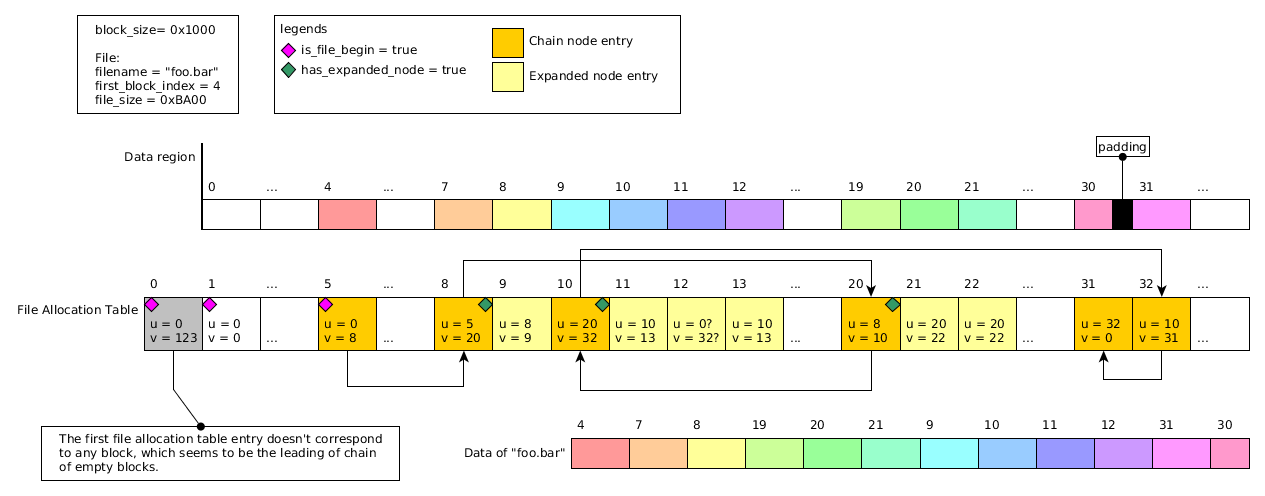
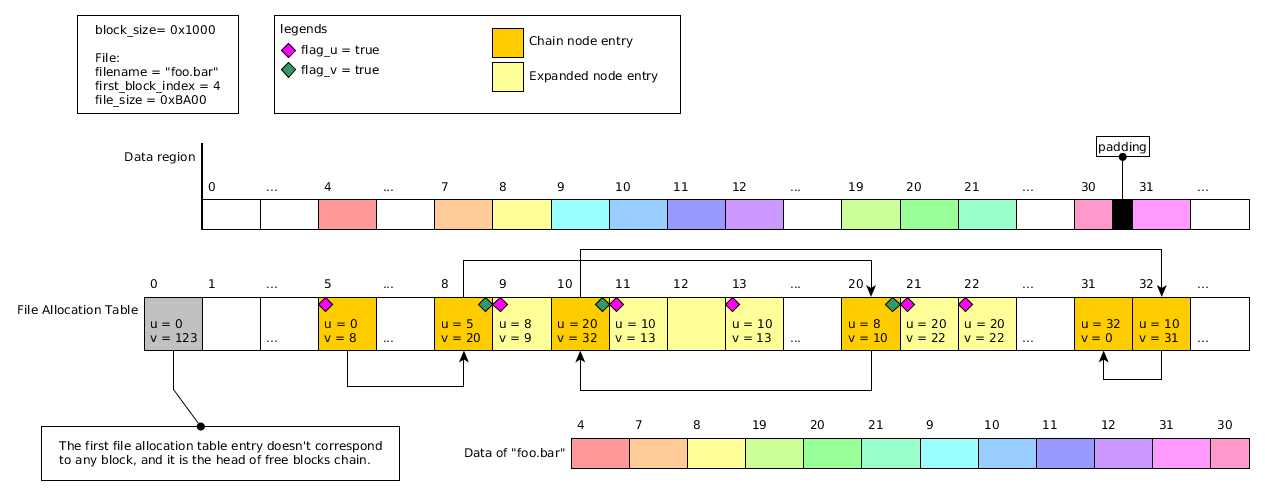
update doc

diff --git a/DISA.md b/DISA.md
@@ -191,23 +191,25 @@ If the DATA image exists, data region is the whole DATA image; other wise, data 
 |-|-|-|
 |0x00|4|Magic "SAVE"|
 |0x04|4|Magic 0x40000|
-|0x08|8|0x20?|
+|0x08|8|Filesystem Information offset (0x20)|
 |0x10|8|Image size in blocks|
 |0x18|4/8?|Image block size|
-|0x1C|8|Unknown:thinking:|
+|0x1C|4|Unknown:thinking:|
+|||Below is Filesystem Information|
+|0x20|4|Unknown:thinking:|
 |0x24|4|Data region block size|
 |0x28|8|Directory hash table offset|
 |0x30|4|Directory hash table bucket count|
-|0x34|4|Unknown. Usually 0 or equalls FAT entry count:thinking:|
+|0x34|4|Unknown. Usually 0 or equals FAT entry count:thinking:|
 |0x38|8|File hash table offset|
 |0x40|4|File hash table bucket count|
-|0x44|4|Unknown. Usually 0 or equalls FAT entry count:thinking:|
+|0x44|4|Unknown. Usually 0 or equals FAT entry count:thinking:|
 |0x48|8|File allocation table offset|
 |0x50|4|File allocation table entry count|
-|0x54|4|Unknown. Usually 0 or equalls FAT entry count:thinking:|
+|0x54|4|Unknown. Usually 0 or equals FAT entry count:thinking:|
 |0x58|8|Data region offset (if no DATA image)|
 |0x60|4|Data region block count (= File allocation table entry count)|
-|0x64|4|Unknown. Usually 0 or equalls FAT entry count:thinking:|
+|0x64|4|Unknown. Usually 0 or equals FAT entry count:thinking:|
 |0x68|8|If DATA exists: directory entry table offset;
 |||otherwise: u32 directory entry table starting block index + u32 directory entry table block count|
 |0x70|4|Maximum directory count|
@@ -219,6 +221,7 @@ If the DATA image exists, data region is the whole DATA image; other wise, data 
 
  - All "offsets" are relative to the beginning of SAVE image. All "starting block index" are relative to the beginning of data region.
  - The file/directory bucket count & maximum count fields are the same as the arguments passed in when formating the save.
+ - When DATA partition doesn't exist, directory & file entry tables are allocated in the data region, and while be marked allocated in file allocation table as if they are two normal files. However, only continuous allocation as been observed, so directly reading `block_count * block_size` bytes from `data_region + starting_block_index * block_size` should be safe. See the section _File Allocation Table_ below for more information.
 
 ### Directory Entry Table
 The directory entry table is an array of the following entry type. It describes the directory hierarchy of the filesystem.
@@ -292,23 +295,36 @@ uint32_t GetBucket(
 ```
 
 ### File Allocation Table
-The file allocation table is an array of the following 8-byte entry. The array size is actually one more than the size recorded in the SAVE header. Each entry corresponds to a block in the data region (the block size is defined in SAVE header). However, the 0th entry seems to corresponds to nothing, so the corresponding block index is off by one. e.g. entry 31 in this table corresponds to block 30 in the data region.
+The file allocation table is an array of the following 8-byte entry. The array size is actually one more than the size recorded in the SAVE header. Each entry corresponds to a block in the data region (the block size is defined in SAVE header). However, the 0th entry corresponds to nothing, so the corresponding block index is off by one. e.g. entry 31 in this table corresponds to block 30 in the data region.
 
 |Offset|Length|Description|
 |-|-|-|
-|0x00|4|bit[0:30]: Index U; bit[31]: Is starting node|
-|0x04|4|bit[0:30]: Index V; bit[31]: Has expanded node|
+|0x00|4|bit[0:30]: Index U; bit[31]: Flag U
+|0x04|4|bit[0:30]: Index V; bit[31]: Flag V|
 
 Entries in this table forms several chains, representing how blocks in the data region should be linked together. However, unlike normal FAT system, there are two kinds of entry in this table:
- - Chain node entry. Index U is the index of the previous chain node entry (0 if this is the first node). Index V is the index of the next chain node entry(0 if this is the last node)
- - Expanded node entry. Index U is the index of the leading chain node entry and Index V is the index of the last block in the expanded node.
+ - Chain node entry.
 
-When the `has expanded node` bit is set for a chain node entry, the entry is followed by one or more expanded node, which indicates this node in the chain should have a size of multiple blocks. The first and the last entries in the expanded node contains the index of the start and the end. The U and V index for other expanded nodes are unknown (unused?).
+    - `Index U` is the index of the previous chain node entry (0 if this is the first node).
+
+    - `Index V` is the index of the next chain node entry(0 if this is the last node).
+
+    - `Flag U` is set for the first node for a file.
+
+    - `Flag V` is set when this node entry is followed by a group of one or more expanded node entries.
+ - Expanded node entry.
+
+    - `Index U` is the index of the leading chain node entry and
+    - `Index V` is the index of the last block in the expanded node. However only the first and the last expanded node entries in a group has these two index set. For other entries, these two index is unused, and can be even unhashed by IVFC tree if the group is large enough.
+
+    - `Flag U` is set for the first and the last node in a group.
 
 Here is an example of how a file is reconstructed following the file allocation table:
 ![foo.bar](disa-fat.png)
 
 TODO: explain more if this picture is insufficient.
+
+All entries that are not allocated also form one chain. The head of this chain is entry[0].
 
 ## Recap of How to Extract Files From a Save File
  - Find the active partition table and the partition(s).
